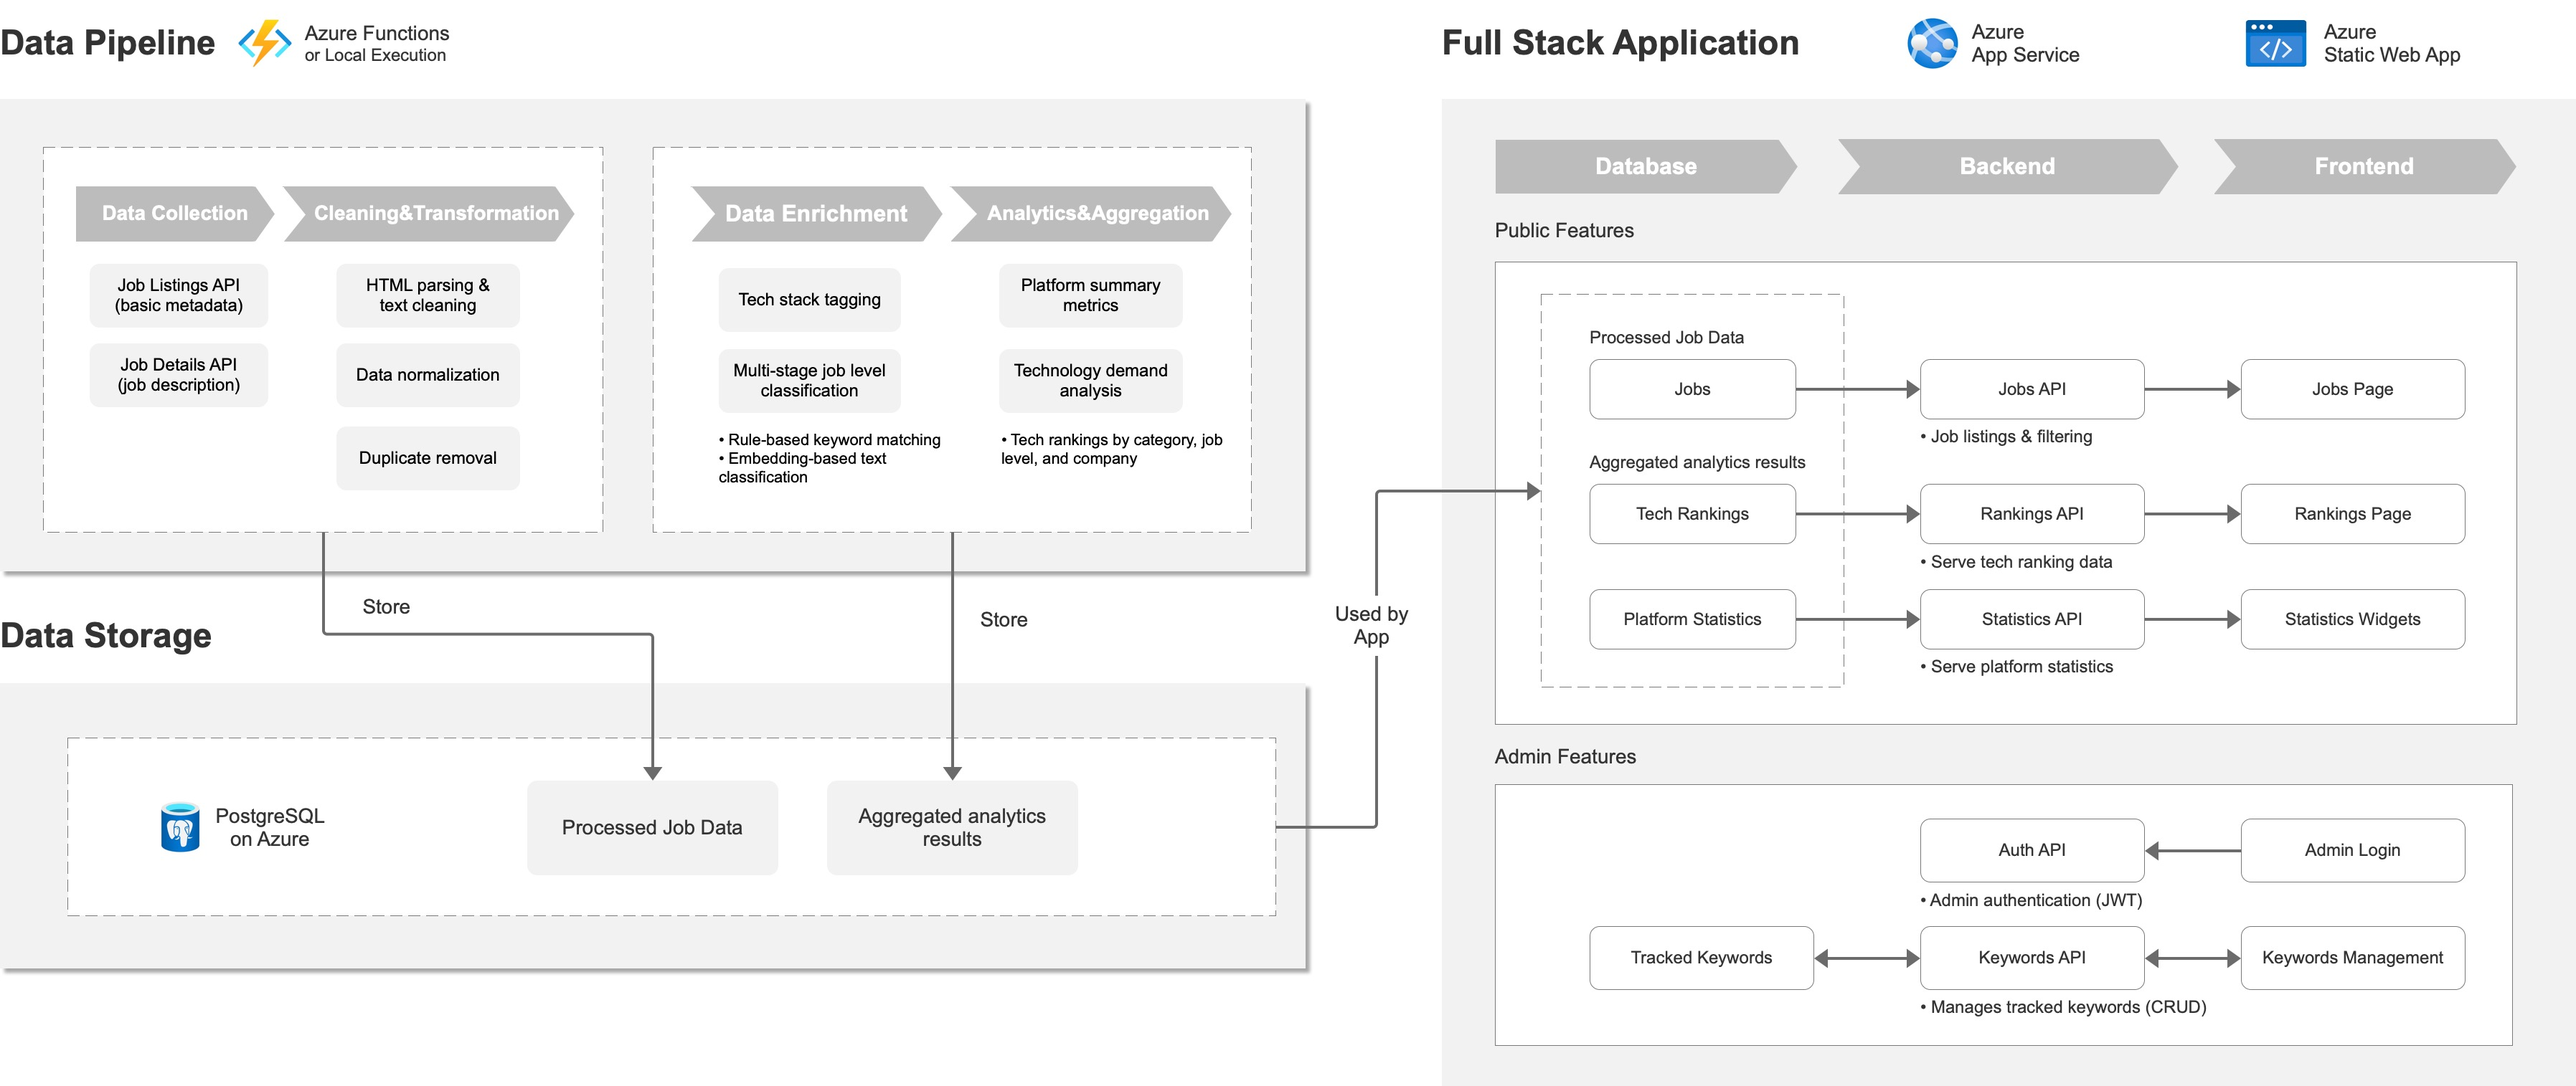
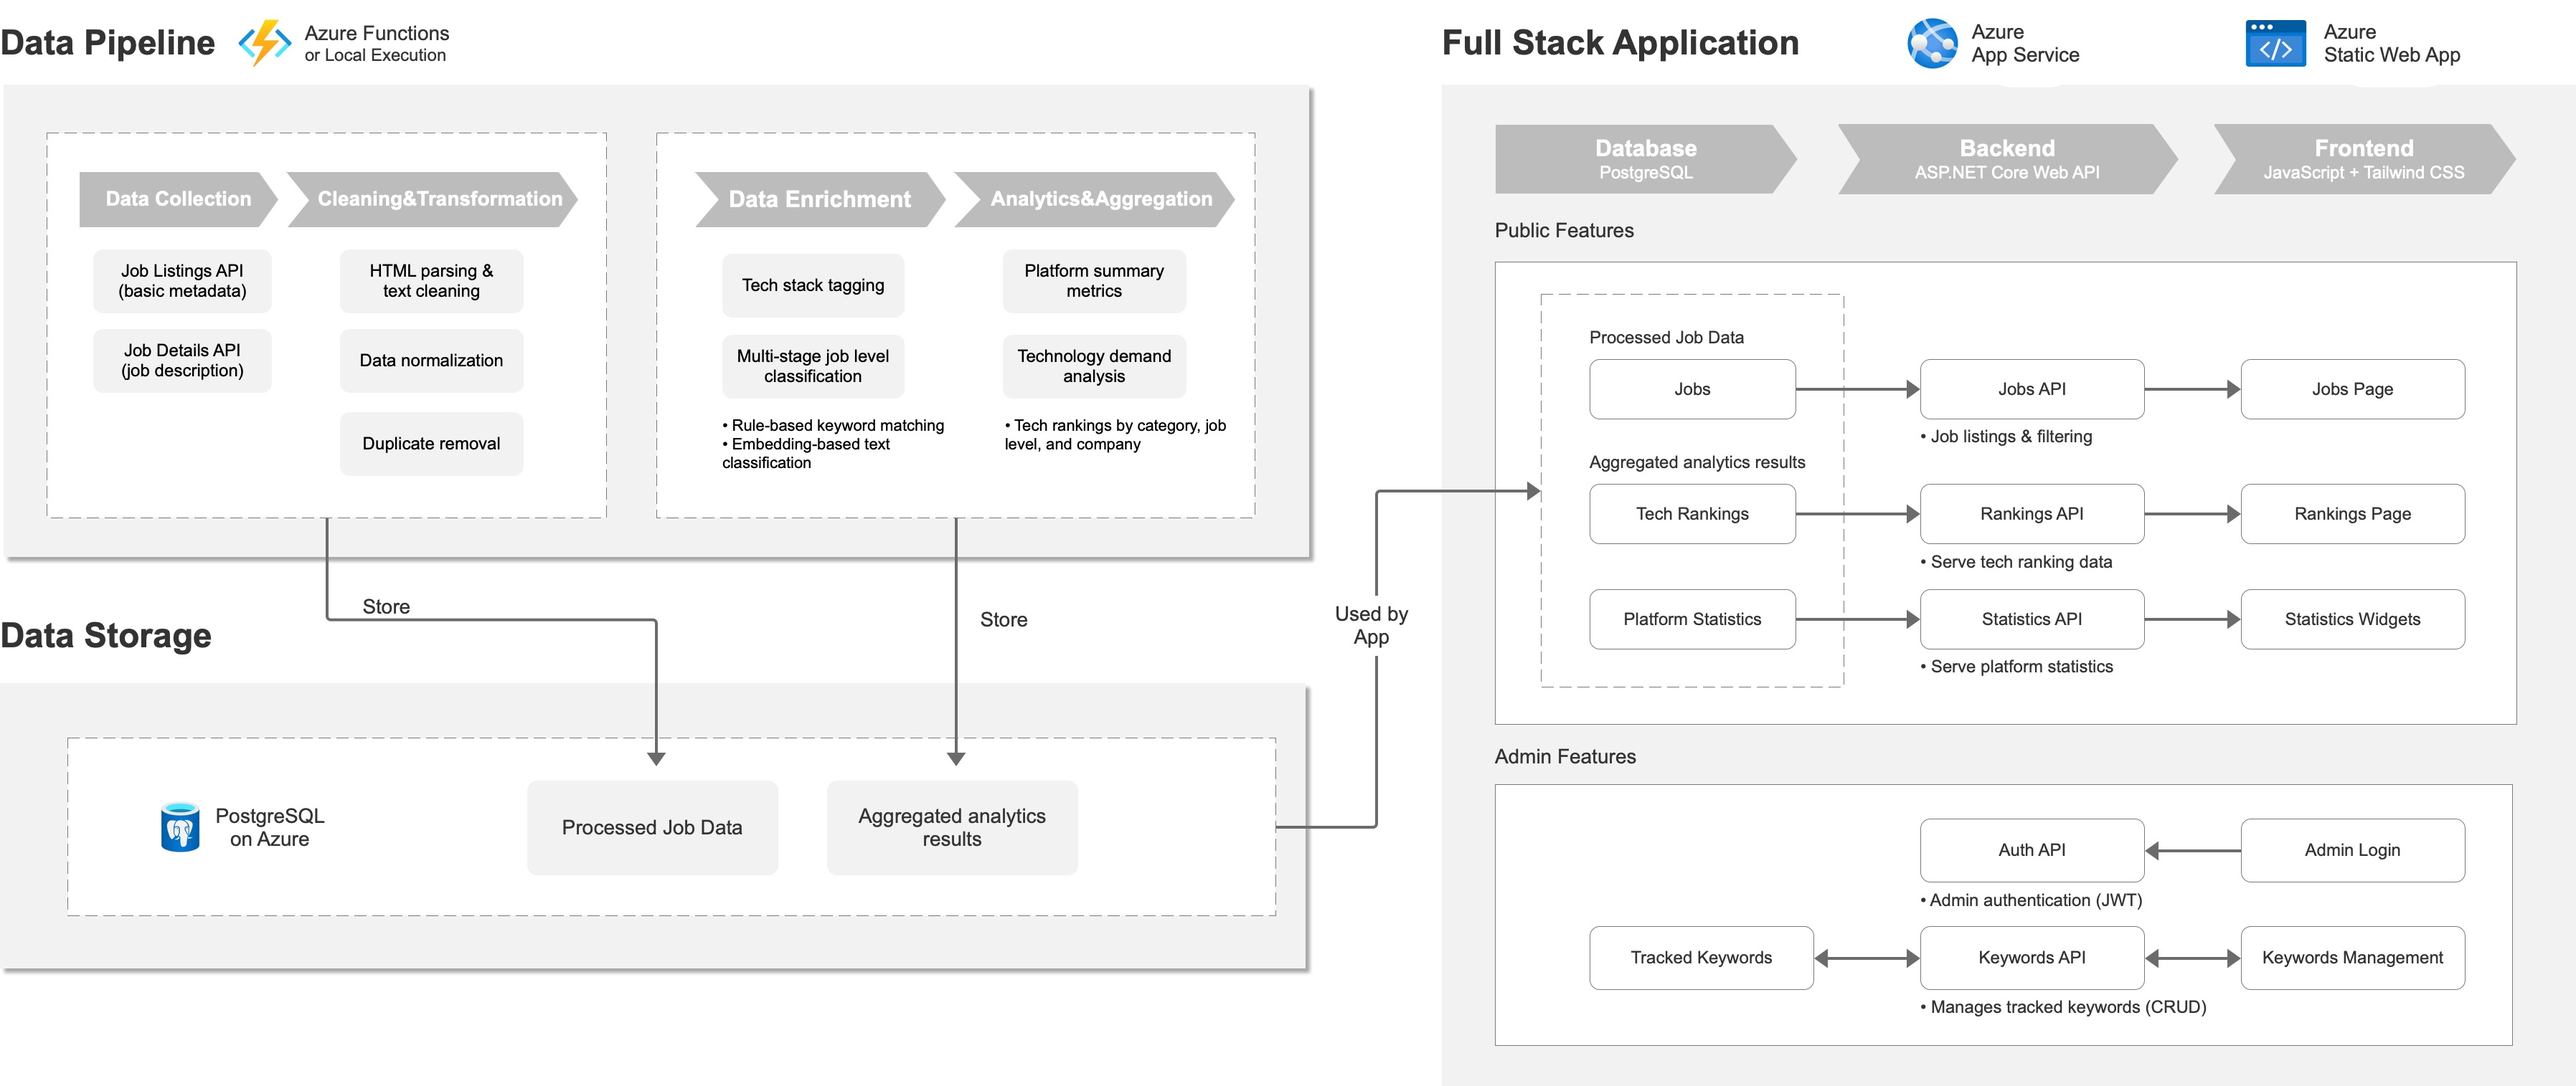
Refactor the job classification pipeline diagram in the README

diff --git a/README.md b/README.md
@@ -4,6 +4,7 @@
 
 StackRadar is designed to quantify technology demand in the New Zealand job market and visualize these insights through a full-stack web application. It aims to help developers make more informed learning decisions.
 
+
 ## 2. Live Demo & Screenshots  
 
 ### 2.1 Live Site 
@@ -15,7 +16,20 @@ StackRadar is designed to quantify technology demand in the New Zealand job mark
 ![Landing Page](./docs/stackradar_landing_page.jpg)
 ![SkillsTrend Page](./docs/skillstrend.jpg)
 
-## 3. System Overview
+
+## 3. Tech Stack Used
+
+- **Frontend**: JavaScript, HTML, Tailwind CSS
+- **Backend**: C# · ASP.NET Core Web API (RESTful)
+- **Data pipeline**: Python, Requests, BeautifulSoup, Pandas
+- **Database**: PostgreSQL (Azure Database for PostgreSQL)
+- **Classification pipeline**: Sentence Transformers (embeddings), PyTorch MLP classifier
+- **Cloud**: Azure (App Service, Static Web App)
+
+
+## 4. Technical Implementation
+
+### 4.1 System Overview 
 
 The system consists of three main components: 
 - a data pipeline that collects and processes publicly available job posting data
@@ -26,20 +40,21 @@ The following diagram illustrates how these components interact within the syste
 
 ![System Overview](./docs/system_overview.jpeg)
 
-## 4. Backend API Overview
+### 4.2 Backend API Overview
 
 ![API Endpoint Overview](./docs/API_Endpoint_Overview.png)
 
-## 5. Job Level Classification Pipeline
+### 4.3 Job Level Classification Pipeline
 
-This pipeline predicts the job level for each posting using a hybrid approach that combines rule-based logic and machine learning. The pipeline consists of two main stages:
+This pipeline simulates human reasoning to predict the job level for each posting, using a hybrid approach that combines rule-based logic and machine learning. The pipeline consists of two main stages:
 
 - a rule-based keyword matching method applied to job titles to directly assign job levels when possible
 - an embedding-based machine learning pipeline that extracts key information from job descriptions and predicts job levels using sentence embeddings and an MLP classifier
 
 ![Job Level Classification Pipeline](./docs/Classification_Pipeline_Flow.jpeg)
 
-## 6. Project Structure
+
+## 5. Project Structure
 
 ```bash
 STACKTRENDS.COM/
@@ -53,13 +68,5 @@ STACKTRENDS.COM/
 └── StackTrends.sln      
 ```
 
-## 7. Tech Stack Used in StackRadar
-
-- **Frontend**: JavaScript, HTML, Tailwind CSS
-- **Backend**: C# · ASP.NET Core Web API (RESTful)
-- **Data pipeline**: Python, Requests, BeautifulSoup, Pandas
-- **Database**: PostgreSQL (Azure Database for PostgreSQL)
-- **Classification pipeline**: Sentence Transformers (embeddings), PyTorch MLP classifier
-- **Cloud**: Azure (App Service, Static Web App)
 
 
